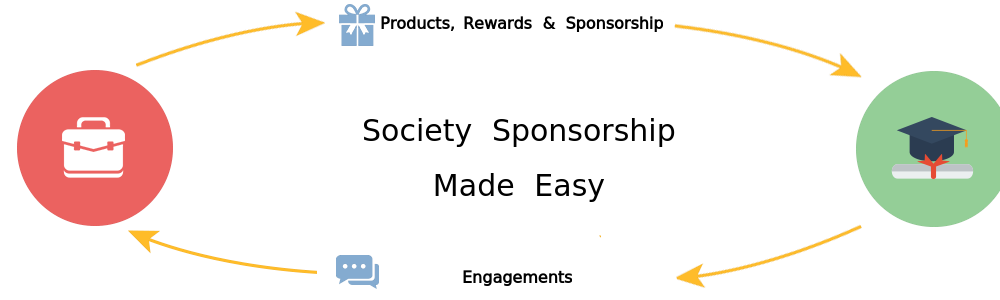
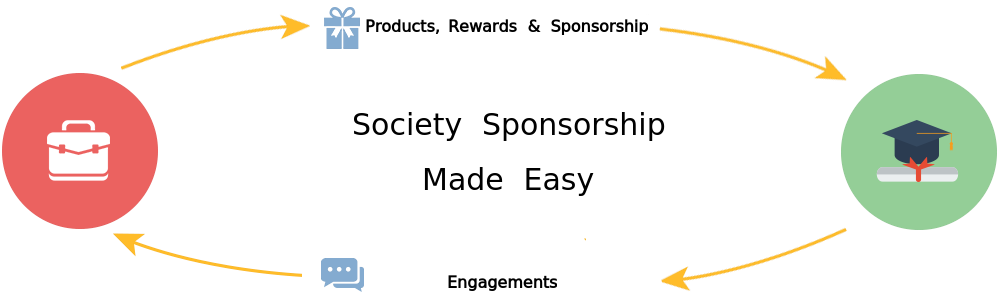
corrected society image

diff --git a/assets/css/custom.css b/assets/css/custom.css
@@ -89,6 +89,10 @@ a:hover {
   text-align: center;
 }
 
+#howItWorks img{
+    max-width: 80%;
+}
+
 /*admin login basic authentication styling*/
 
 .hidden {
@@ -251,4 +255,8 @@ footer {
         display: block;
         width: 100%;
     }
+    #howItWorks img{
+    max-width: 30%;
+    }
+
 }

diff --git a/assets/css/company.css b/assets/css/company.css
@@ -199,9 +199,6 @@ h1.text-center.howItWorksHead {
     display: none;
   }
 
-  img{
-    max-width: 70%;
-  }
 }
 /* 
 @media screen and (min-width: 1000px) {
